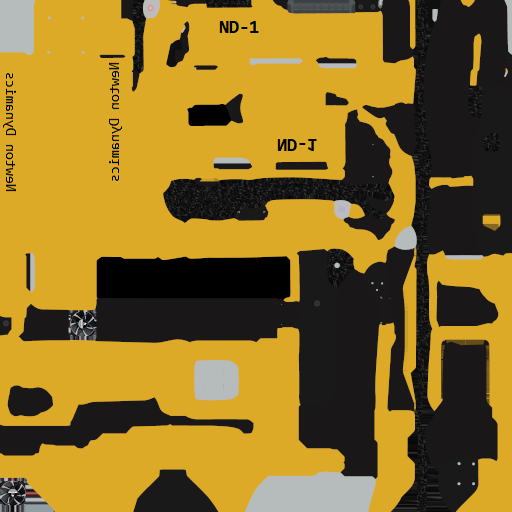
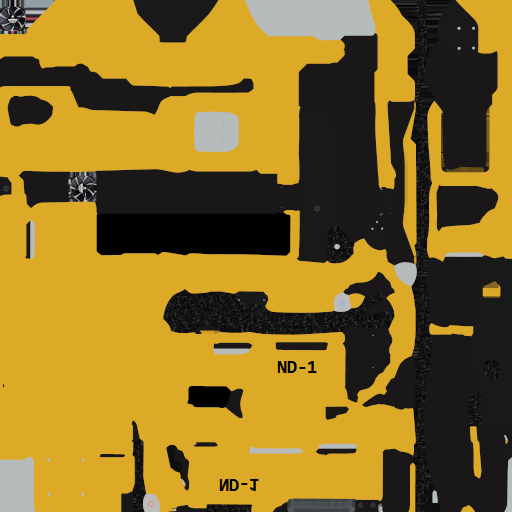
well start animation at none zero speed was a big mistake.

diff --git a/newton-4.00/applications/ndSandbox/demos/ndQuadrupedTest_3.cpp b/newton-4.00/applications/ndSandbox/demos/ndQuadrupedTest_3.cpp
@@ -25,7 +25,7 @@
 
 namespace ndQuadruped_3
 {
-	#define ND_TRAIN_MODEL
+	//#define ND_TRAIN_MODEL
 	#define CONTROLLER_NAME "ndSpot-VPG.dnn"
 
 	class ndLegObservation
@@ -967,7 +967,9 @@ namespace ndQuadruped_3
 
 		void PostUpdate(ndWorld* const world, ndFloat32 timestep)
 		{
-			ndFloat32 animSpeed = (m_control->m_animSpeed > 0.0f) ? (1.0f + 1.0f * m_control->m_animSpeed) : 0.0f;
+			//ndFloat32 animSpeed = (m_control->m_animSpeed > 0.0f) ? (1.0f + 1.0f * m_control->m_animSpeed) : 0.0f;
+			//ndFloat32 animSpeed = (m_control->m_animSpeed > 0.0f) ? (0.1f + 1.0f * m_control->m_animSpeed) : 0.0f;
+			ndFloat32 animSpeed = 2.0f * m_control->m_animSpeed;
 			m_animBlendTree->Update(timestep * animSpeed);
 			ndModelArticulation::PostUpdate(world, timestep);
 		}

diff --git a/newton-4.00/applications/ndSandbox/ndDemoEntityManager.cpp b/newton-4.00/applications/ndSandbox/ndDemoEntityManager.cpp
@@ -56,12 +56,12 @@
 //#define DEFAULT_SCENE	16		// advanced industrial robot
 //#define DEFAULT_SCENE	17		// basic player
 //#define DEFAULT_SCENE	18		// rag doll
-#define DEFAULT_SCENE	19		// cart pole discrete controller
+//#define DEFAULT_SCENE	19		// cart pole discrete controller
 //#define DEFAULT_SCENE	20		// cart pole continue controller
 //#define DEFAULT_SCENE	21		// unit cycle controller
 //#define DEFAULT_SCENE	22		// quadruped test 1
 //#define DEFAULT_SCENE	23		// quadruped test 2
-//#define DEFAULT_SCENE	24		// quadruped test 3
+#define DEFAULT_SCENE	24		// quadruped test 3
 //#define DEFAULT_SCENE	25		// biped test 1
 //#define DEFAULT_SCENE	26		// biped test 2
 //#define DEFAULT_SCENE	27		// train biped test 2

diff --git a/newton-4.00/applications/ndSandbox/demos/ndQuadrupedTest_1.cpp b/newton-4.00/applications/ndSandbox/demos/ndQuadrupedTest_1.cpp
@@ -784,7 +784,8 @@ namespace ndQuadruped_1
 
 		void PostUpdate(ndWorld* const world, ndFloat32 timestep)
 		{
-			ndFloat32 animSpeed = (m_control->m_animSpeed > 0.01f) ? (1.0f + 1.0f * m_control->m_animSpeed) : 0.0f;
+			//ndFloat32 animSpeed = (m_control->m_animSpeed > 0.01f) ? (1.0f + 1.0f * m_control->m_animSpeed) : 0.0f;
+			ndFloat32 animSpeed = 2.0f * m_control->m_animSpeed;
 			m_animBlendTree->Update(timestep * animSpeed);
 			ndModelArticulation::PostUpdate(world, timestep);
 		}

diff --git a/newton-4.00/sdk/dModel/ndFbxMeshLoader.cpp b/newton-4.00/sdk/dModel/ndFbxMeshLoader.cpp
@@ -564,7 +564,7 @@ void ndFbxMeshLoader::ImportMeshNode(ofbx::Object* const fbxNode, ndFbx2ndMeshNo
 		for (ndInt32 i = 0; i < indexCount; ++i)
 		{
 			ofbx::Vec2 n = uv[i];
-			uvArray[i] = ndMeshEffect::ndUV(ndFloat32(n.x), ndFloat32(n.y));
+			uvArray[i] = ndMeshEffect::ndUV(ndFloat32(n.x), ndFloat32(1.0f - n.y));
 		}
 		format.m_uv0.m_data = &uvArray[0].m_u;
 		format.m_uv0.m_indexList = &indexArray[0];
